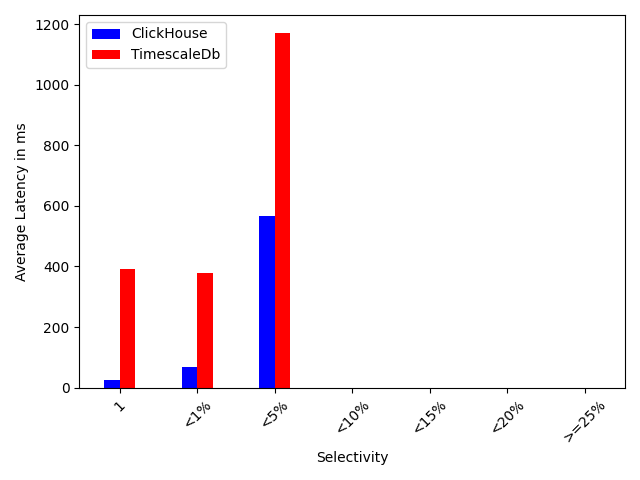
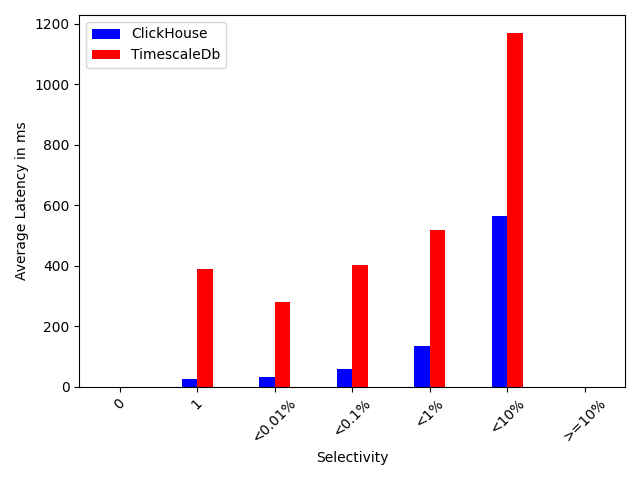
fix x-axis in avg-que-latency-selectivity plots

diff --git a/visualizer.py b/visualizer.py
@@ -86,8 +86,8 @@ def visualize_read_only(json, row_count, batch_size):
     json = filter_json(json, "batchSize", batch_size)
     dbs = getAllDBs(json)
     results_by_db = {}
-    # buckets = [0, 1, 0.0001 * row_count, 0.001 * row_count, 0.01 * row_count, 0.1 * row_count, row_count]
-    buckets = [1, 0.01 * row_count, 0.05 * row_count, 0.1 * row_count, 0.15 * row_count, 0.2 * row_count, row_count]
+    buckets = [0, 1, 0.0001 * row_count, 0.001 * row_count, 0.01 * row_count, 0.1 * row_count, row_count]
+    # buckets = [1, 0.01 * row_count, 0.05 * row_count, 0.1 * row_count, 0.15 * row_count, 0.2 * row_count, row_count]
     for db in dbs:
         latencies_by_selectivity = {}
         for bucket in buckets:
@@ -108,8 +108,8 @@ def visualize_read_only(json, row_count, batch_size):
         results_by_db[db] = latencies
     x = numpy.array(range(len(buckets)))  # numpy.array(buckets)
     ax = plt.subplot(111)
-    # plt.xticks(ticks=range(len(x)), labels=["0", "1", "<0.01%", "<0.1%", "<1%", "<10%", ">=10%"], rotation=45)
-    plt.xticks(ticks=range(len(x)), labels=["1", "<1%", "<5%", "<10%", "<15%", "<20%", ">=25%"], rotation=45)
+    plt.xticks(ticks=range(len(x)), labels=["0", "1", "<0.01%", "<0.1%", "<1%", "<10%", ">=10%"], rotation=45)
+    # plt.xticks(ticks=range(len(x)), labels=["1", "<1%", "<5%", "<10%", "<15%", "<20%", ">=25%"], rotation=45)
     ax.bar(x - 0.1, results_by_db[dbs[0]], width=.2, color='b', align='center', label=dbs[0])
     ax.bar(x + 0.1, results_by_db[dbs[1]], width=.2, color='r', align='center', label=dbs[1])
     plt.legend(loc="upper left")
